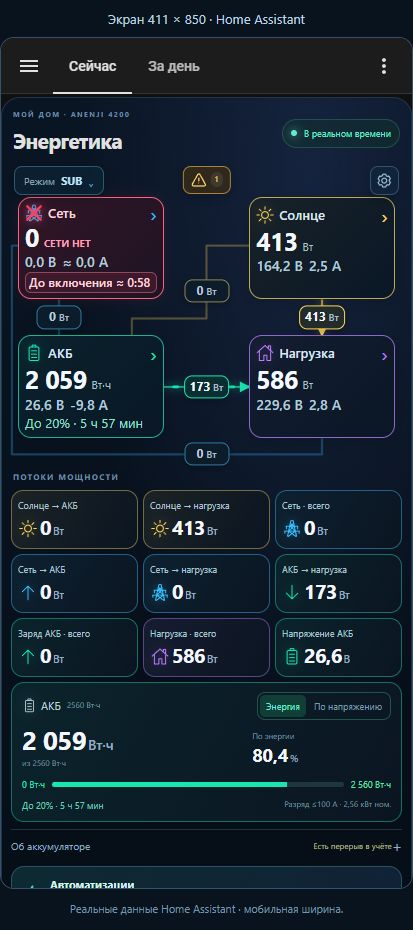
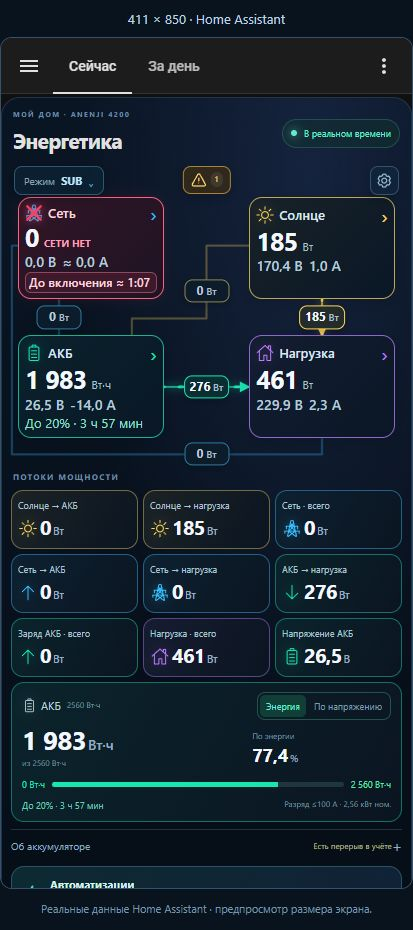
Fit energy overview to landscape phones and desktop screens

diff --git a/energetika-card.js b/energetika-card.js
@@ -8,7 +8,7 @@ export function formatRuntime(minutes) {
   const total=Math.floor(minutes);
   return total===0?'0 мин':`${Math.floor(total/60)} ч ${String(total%60).padStart(2,'0')} мин`;
 }
-/* Energetika 2.9.2 — local Home Assistant card, no external dependencies. */
+/* Energetika 2.10.2 — local Home Assistant card, no external dependencies. */
 const ROOT = 'sensor.anenji_4200_protocol_1_';
 const SOURCE_MODES = [
   {code:'UTI', option:'Utility First (UTI)', description:'Сеть в приоритете'},
@@ -126,11 +126,34 @@ class EnergetikaCard extends HTMLElement {
       @media(max-width:750px){.diagram-wrap{padding-top:36px}.diagram-stage{max-width:500px;min-height:270px}.diagram-stage>.node{padding:6px;gap:2px;border-radius:13px}.node-heading{gap:5px;min-height:18px}.node-heading .node-name{font-size:13px}.node-symbol>.icon,.node-symbol>.grid-cross{width:18px;height:18px}.node-reading .node-value{font-size:25px}.node-reading .node-unit{font-size:11px}.node>.node-metrics{font-size:14px;gap:6px}.node>.node-runtime{font-size:13px}.node>.grid-timer{font-size:12px;padding:2px 3px}.diagram-stage>.flow-label{font-size:12px;padding:4px 5px}.grid-absent .node-reading .node-unit{font-size:10px}}
       @media(max-width:390px){.diagram-stage>.node{padding:5px;gap:2px}.node-heading .node-name{font-size:12px}.node-reading .node-value{font-size:23px}.node>.node-metrics{font-size:13px;gap:6px}.node>.node-runtime{font-size:12px}.node>.grid-timer{font-size:11.5px}.node-symbol>.icon,.node-symbol>.grid-cross{width:18px;height:18px}.diagram-stage>.flow-label{min-width:41px;padding:4px;font-size:11px}}
       .node.grid-absent>.grid-timer.scheduled{background:#3c1a2b;border-color:#95465c;color:#ffd1de}
-      .shell>header{display:grid;grid-template-columns:minmax(0,1fr) auto;gap:8px;margin:0;text-align:left}.energy-heading{position:static;display:flex;flex-direction:column;align-items:flex-start;min-width:0;text-align:left}.energy-heading h1{margin-left:0;transform:none;white-space:nowrap}.energy-heading .eyebrow{margin-left:0;transform:none}
+      .shell>header,.first-screen>header{display:grid;grid-template-columns:minmax(0,1fr) auto;gap:8px;margin:0;text-align:left}.energy-heading{position:static;display:flex;flex-direction:column;align-items:flex-start;min-width:0;text-align:left}.energy-heading h1{margin-left:0;transform:none;white-space:nowrap}.energy-heading .eyebrow{margin-left:0;transform:none}
+
+      /* Keep the portrait arrangement; give wider screens their own two-column layout. */
+      .diagram-wrap{padding-top:0}.diagram-toolbar{position:relative;height:42px}.first-screen,.overview,.flow-panel{min-width:0}.flow-panel{margin:0}.overview>.battery-summary{margin-top:10px}.overview-actions{min-width:0}
+      @media(max-width:750px){.diagram-toolbar{height:36px}.overview>.battery-summary{margin-top:5px}}
+      @media(min-width:800px), (orientation:landscape) and (min-width:640px) and (max-height:600px){
+        .shell{position:relative;max-width:none;margin:4px 8px 12px;padding:14px;border-radius:22px}.shell>header,.first-screen>header{display:grid;grid-template-columns:minmax(0,1fr) auto;gap:8px;padding:0 2px 8px;margin:0}.first-screen>header h1{font-size:25px;line-height:1.1;margin:0}.first-screen>header .eyebrow{font-size:8px;line-height:1.2;margin-bottom:4px}.first-screen>header .sub{display:none}
+        .overview{display:grid;grid-template-columns:minmax(0,1.1fr) minmax(0,1fr);grid-template-rows:auto auto;gap:10px 16px;align-items:stretch}.overview>.diagram-wrap{grid-column:1;grid-row:1;min-width:0;min-height:0}.diagram-toolbar{height:36px}.diagram-toolbar .inverter-mode,.diagram-toolbar .settings-gear,.diagram-toolbar energetika-alerts-panel{top:0}.diagram-stage{height:clamp(280px,38dvh,340px);min-height:0;max-height:none;max-width:none;aspect-ratio:auto;margin-bottom:0}
+        .diagram-stage>.node{padding:8px;gap:3px}.node-heading{min-height:20px}.node-reading .node-value{font-size:28px}.node>.node-metrics{font-size:14px;gap:9px}.node>.node-runtime{font-size:13px}.node>.grid-timer{font-size:12px}
+        .flow-panel{grid-column:2;grid-row:1;display:flex;flex-direction:column;min-height:0}.flow-panel>.section-label{font-size:10px;margin:8px 0 8px;line-height:20px}.flow-panel>.tiles{flex:1;grid-template-columns:repeat(2,minmax(0,1fr));grid-auto-rows:minmax(0,1fr);gap:7px;min-height:0}.flow-panel .tile{min-height:0;padding:9px 10px;gap:9px;border-radius:13px}.flow-panel .tile>.icon{width:24px;height:28px}.flow-panel .tile-title{font-size:12px;white-space:normal}.flow-panel .tile strong{font-size:27px;line-height:1.1;padding-left:0}.flow-panel .tile-body{gap:4px}.flow-panel .tile .arrow{display:none}.flow-panel .charge-tile{grid-row:auto;grid-column:1/-1}
+        .overview>.battery-summary{grid-column:1/-1;grid-row:2;margin:0;padding:10px 14px}.battery-top{margin-bottom:6px}.battery-main .plain-value strong{font-size:30px}.battery-layout{grid-template-columns:minmax(0,1.6fr) minmax(0,1fr)}.battery-layout .mini strong{font-size:23px}.voltage-limits{margin-top:7px}.battery-bottom{margin-top:6px}
+        .note,footer{display:none}.overview-actions{display:flex;align-items:flex-start;gap:12px;margin-top:8px}.overview-actions>details{flex:1;min-width:0;margin:0;padding-top:6px}.overview-actions>energetika-automation-panel{flex:1;min-width:0;margin-top:0}
+      }
+      @media(min-width:1400px) and (min-height:601px){.flow-panel>.tiles{grid-template-columns:repeat(3,minmax(0,1fr))}.flow-panel .charge-tile{grid-column:auto}.flow-panel .tile strong{font-size:32px}.flow-panel .tile-title{font-size:13px}.overview{grid-template-columns:minmax(0,1.1fr) minmax(0,1fr);gap:12px 20px}.shell{padding:18px}}
+      @media(min-width:800px) and (max-height:760px) and (min-height:601px){.shell{padding:10px 12px}.diagram-stage>.node{padding:6px;gap:2px}.node-heading{min-height:18px}.node-symbol>.icon,.node-symbol>.grid-cross{width:18px;height:18px}.node-heading .node-name{font-size:13px}.node-reading .node-value{font-size:25px}.flow-panel .tile{padding:7px 9px}.flow-panel .tile-title{font-size:11px}.flow-panel .tile strong{font-size:24px}.first-screen>header h1{font-size:23px}}
+      @media(orientation:landscape) and (min-width:640px) and (max-height:600px){
+        .shell{margin:3px 5px 10px;padding:6px 8px;border-radius:15px;overflow:visible}.first-screen{height:calc(100dvh - 72px);min-height:296px;display:flex;flex-direction:column;gap:5px}.first-screen>header{display:block;min-height:26px;padding:0 310px 0 1px}.first-screen>header h1{font-size:19px;line-height:26px}.first-screen>header .eyebrow,.first-screen>header .live{display:none}
+        .overview{flex:1;min-height:0;grid-template-columns:minmax(0,1.1fr) minmax(0,1fr);grid-template-rows:minmax(0,1fr) 72px;gap:6px 12px}.overview>.diagram-wrap{position:static}.diagram-toolbar{position:absolute;right:8px;top:5px;width:300px;height:28px;z-index:5}.diagram-toolbar .inverter-mode{left:0;top:0}.diagram-toolbar .settings-gear{right:0;top:0;width:28px;height:28px;padding:5px}.diagram-toolbar energetika-alerts-panel{top:0}.diagram-toolbar .source-trigger{min-height:28px;padding:5px 8px;font-size:10px}.diagram-toolbar .source-trigger strong{font-size:11px}.diagram-toolbar .mode-popover{top:32px}
+        .diagram-stage{height:100%;min-height:0;max-height:none;max-width:none;aspect-ratio:auto}.diagram-stage>.node{height:42%!important;padding:4px;gap:1px;border-radius:10px}.node-heading{min-height:16px;gap:4px}.node-heading .node-name{font-size:12px}.node-symbol>.icon,.node-symbol>.grid-cross{width:16px;height:16px}.node-reading{gap:3px}.node-reading .node-value{font-size:22px;line-height:1.05}.node-reading .node-unit{font-size:10px}.node>.node-metrics{font-size:13px;line-height:1.15;gap:6px}.node>.node-runtime{font-size:11.5px;line-height:1.15}.node>.grid-timer{font-size:11px;line-height:1.15;padding:1px 3px}.diagram-stage>.flow-label{min-width:39px;padding:3px 4px;font-size:11px;border-radius:6px}.diagram-stage>.flow-label .flow-unit{font-size:9px}
+        .flow-panel>.section-label{font-size:8px;letter-spacing:1px;line-height:12px;margin:0 0 3px}.flow-panel>.tiles{grid-template-columns:repeat(3,minmax(0,1fr));grid-template-rows:repeat(3,minmax(0,1fr));grid-auto-rows:auto;gap:4px}.flow-panel .charge-tile{grid-column:auto;grid-row:auto}.flow-panel .tile{display:block;position:relative;padding:4px 5px;border-radius:9px}.flow-panel .tile>.icon{position:absolute;left:5px;bottom:6px;width:16px;height:18px}.flow-panel .tile-body{height:100%;justify-content:space-between;gap:2px}.flow-panel .tile-title{font-size:10px;line-height:1.1;white-space:normal}.flow-panel .tile strong{font-size:21px;padding-left:20px;line-height:1.05}.flow-panel .tile strong.long-value{font-size:17px}
+        .overview>.battery-summary{padding:5px 8px;display:grid;grid-template-columns:minmax(150px,1fr) minmax(180px,1.4fr) minmax(170px,1fr);grid-template-rows:minmax(0,1fr) auto;gap:2px 10px;border-radius:11px;min-height:0;line-height:1.1}.battery-main .plain-value{display:block;line-height:1}.battery-top{grid-column:1;grid-row:1/3;flex-direction:column;align-items:flex-start;justify-content:center;gap:3px;margin:0}.battery-title{font-size:11px;gap:4px}.battery-title .icon{width:16px;height:18px}.nameplate{font-size:8px;margin-left:2px}.mode-switch{padding:1px}.mode-switch button{font-size:9px;padding:3px 6px}.battery-layout{grid-column:2;grid-row:1;grid-template-columns:minmax(0,1.6fr) minmax(0,1fr);gap:7px;align-items:center}.battery-main .plain-value strong{font-size:25px;line-height:1}.battery-main .capacity{font-size:8px;margin-top:1px}.battery-layout .mini>span{font-size:8px}.battery-layout .mini strong{font-size:18px}.voltage-limits{grid-column:2;grid-row:2;font-size:8px;gap:5px;margin:0}.voltage-limits .bar{height:4px}.battery-bottom{grid-column:3;grid-row:1/3;flex-direction:column;align-items:flex-end;justify-content:center;gap:4px;margin:0;font-size:8px}.battery-bottom .runtime{font-size:11px}.battery-spec{font-size:8px}.battery-estimate{font-size:9px;text-align:right}.overview-actions{margin-top:8px;gap:10px}.overview-actions>details{font-size:10px}.note,footer{display:none}
+      }
+      @media(orientation:landscape) and (min-width:640px) and (max-height:380px){.first-screen{height:calc(100dvh - 68px);min-height:280px;gap:4px}.overview{grid-template-rows:minmax(0,1fr) 66px;gap:4px 10px}.first-screen>header{min-height:24px}.first-screen>header h1{font-size:18px;line-height:24px}.diagram-stage>.node{padding:3px}.node-heading{min-height:14px}.node-symbol>.icon,.node-symbol>.grid-cross{width:14px;height:14px}.node-heading .node-name{font-size:11px}.node-reading .node-value{font-size:21px}.node>.node-metrics{font-size:12px}.node>.node-runtime{font-size:11px}.node>.grid-timer{font-size:10.5px}.flow-panel .tile-title{font-size:9px}.flow-panel .tile strong{font-size:19px}.overview>.battery-summary{padding:4px 7px}.battery-main .plain-value strong{font-size:23px}.battery-top{gap:2px}.mode-switch button{padding:2px 5px}}
     </style>
-    <ha-card class="shell"><header><div class="energy-heading"><div class="eyebrow">МОЙ ДОМ · ANENJI 4200</div><h1>Энергетика</h1><div class="sub">Солнце, сеть и энергия вашего дома</div></div><span class="live" data-live><span class="dot"></span><span data-live-text>Подключение</span></span></header>
-    <div class="diagram-wrap"><energetika-alerts-panel></energetika-alerts-panel><button class="settings-gear" data-settings-open aria-label="Настройки инвертора" title="Настройки инвертора"><svg viewBox="0 0 24 24" fill="none" stroke="currentColor" stroke-width="1.7" stroke-linecap="round" stroke-linejoin="round" aria-hidden="true"><path d="m9 3-.6 2.1-1.5.9-2.1-.5-2 3.5 1.5 1.6v1.8L2.8 14l2 3.5 2.1-.5 1.5.9L9 20h4l.6-2.1 1.5-.9 2.1.5 2-3.5-1.5-1.6v-1.8L19.2 9l-2-3.5-2.1.5-1.5-.9L13 3Z"/><circle cx="11" cy="11.5" r="3.2"/></svg></button><div class="inverter-mode"><button class="source-trigger" data-source-open aria-haspopup="dialog" aria-expanded="false"><span>Режим</span><strong data-source-current>—</strong><span class="caret">⌄</span></button><div class="mode-popover" data-source-popover role="dialog" aria-label="Режим питания инвертора" hidden><div class="mode-heading">Приоритет питания<button class="mode-close" data-source-close aria-label="Закрыть выбор режима">×</button></div><div class="source-options" data-source-options role="group" aria-label="Доступные режимы"></div><div class="mode-message" data-source-message role="status"></div><p class="mode-note" data-source-note hidden>Переключение изменит источник питания дома.</p><button class="mode-apply" data-source-apply disabled>Применить режим</button><button class="mode-setting-link" data-settings-link>Все настройки инвертора →</button></div></div>
-    <div class="diagram-stage">
+    <ha-card class="shell"><div class="first-screen"><header><div class="energy-heading"><div class="eyebrow">МОЙ ДОМ · ANENJI 4200</div><h1>Энергетика</h1><div class="sub">Солнце, сеть и энергия вашего дома</div></div><span class="live" data-live><span class="dot"></span><span data-live-text>Подключение</span></span></header>
+    <div class="overview">
+    <div class="diagram-wrap"><div class="diagram-toolbar"><energetika-alerts-panel></energetika-alerts-panel><button class="settings-gear" data-settings-open aria-label="Настройки инвертора" title="Настройки инвертора"><svg viewBox="0 0 24 24" fill="none" stroke="currentColor" stroke-width="1.7" stroke-linecap="round" stroke-linejoin="round" aria-hidden="true"><path d="m9 3-.6 2.1-1.5.9-2.1-.5-2 3.5 1.5 1.6v1.8L2.8 14l2 3.5 2.1-.5 1.5.9L9 20h4l.6-2.1 1.5-.9 2.1.5 2-3.5-1.5-1.6v-1.8L19.2 9l-2-3.5-2.1.5-1.5-.9L13 3Z"/><circle cx="11" cy="11.5" r="3.2"/></svg></button><div class="inverter-mode"><button class="source-trigger" data-source-open aria-haspopup="dialog" aria-expanded="false"><span>Режим</span><strong data-source-current>—</strong><span class="caret">⌄</span></button><div class="mode-popover" data-source-popover role="dialog" aria-label="Режим питания инвертора" hidden><div class="mode-heading">Приоритет питания<button class="mode-close" data-source-close aria-label="Закрыть выбор режима">×</button></div><div class="source-options" data-source-options role="group" aria-label="Доступные режимы"></div><div class="mode-message" data-source-message role="status"></div><p class="mode-note" data-source-note hidden>Переключение изменит источник питания дома.</p><button class="mode-apply" data-source-apply disabled>Применить режим</button><button class="mode-setting-link" data-settings-link>Все настройки инвертора →</button></div></div>
+    </div><div class="diagram-stage">
     <svg class="diagram" viewBox="0 0 440 300" preserveAspectRatio="none" aria-label="Направления потоков энергии">
       <defs>${['solar','grid','battery'].map(c=>`<marker id="arrow-${c}" markerWidth="4" markerHeight="4" refX="3.5" refY="2" orient="auto"><path d="M0 0 4 2 0 4Z" fill="var(--${c})"/></marker>`).join('')}</defs>
       ${this._flow('grid_load','M8 54H1V286H350V268','grid')}
@@ -149,7 +172,7 @@ class EnergetikaCard extends HTMLElement {
       ${this._flowLabel('battery_load',220,211,'battery','АКБ → нагрузка')}
       ${this._flowLabel('grid_load',220,286,'grid','Сеть → нагрузка, байпас')}
     </div></div>
-    <div class="section-label">ПОТОКИ МОЩНОСТИ <span style="color:#3f5e76">/ НАЖМИТЕ НА ЧИСЛО ДЛЯ ИСТОРИИ</span></div>
+    <section class="flow-panel"><div class="section-label">ПОТОКИ МОЩНОСТИ <span style="color:#3f5e76">/ НАЖМИТЕ НА ЧИСЛО ДЛЯ ИСТОРИИ</span></div>
     <div class="tiles">
       ${this._tile('pv_battery','Солнце → АКБ','Заряд от солнечных панелей','sun','solar')}
       ${this._tile('pv_load','Солнце → нагрузка','Солнечная энергия для дома','sun','solar')}
@@ -159,18 +182,19 @@ class EnergetikaCard extends HTMLElement {
       ${this._tile('battery_load','АКБ → нагрузка','Разряд аккумулятора в дом','down','battery')}
       ${this._tile('load','Нагрузка · всего','Потребление дома','home','home')}
       <button class="tile battery" data-key="voltage" title="История напряжения аккумулятора">${icon('battery')}<span class="tile-body"><span class="tile-title">Напряжение АКБ</span><strong>${value('voltage','В')}</strong></span></button>
+      <div class="charge-tile">${this._tile('charge','Заряд АКБ · всего','Сеть + солнце','up','battery')}</div>
+    </div></section>
       <div class="tile battery battery-summary">
         <div class="battery-top"><div class="battery-title">${icon('battery')}АКБ <span class="nameplate" data-battery-nameplate>2560 Вт·ч</span></div><div class="mode-switch" role="group" aria-label="Способ оценки заряда"><button data-mode="energy" aria-pressed="true">Энергия</button><button data-mode="voltage" aria-pressed="false">По напряжению</button></div></div>
         <div class="battery-layout"><div class="battery-main"><button class="plain-value" data-primary data-key="battery" title="История оставшейся энергии"><strong><span data-primary-value>—</span><span class="unit" data-primary-unit>Вт·ч</span></strong></button><span class="capacity" data-mode-caption>из 2560 Вт·ч</span></div><button class="mini" data-secondary data-key="percent"><span data-secondary-label>По энергии</span><strong><span data-secondary-value>—</span><span class="unit">%</span></strong></button></div>
         <div class="voltage-limits"><button data-limit-min data-key="battery" title="История оставшейся энергии">0 Вт·ч</button><div class="bar" data-battery-meter role="meter" aria-label="Оставшаяся энергия АКБ" aria-valuemin="0" aria-valuemax="2560"><span data-battery-bar></span></div><button class="voltage-max" data-limit-max data-key="battery" title="Полная номинальная энергия АКБ">2560 Вт·ч</button></div>
         <div class="battery-bottom"><button class="runtime" data-key="runtime" data-energy-only title="По учёту энергии и текущему разряду АКБ"><span data-runtime>До 20% · —</span></button><span class="battery-estimate" data-voltage-only hidden>Линейная оценка · зависит от нагрузки</span><span class="battery-spec" data-battery-spec title="Подтверждённый предел разряда 100 А">Разряд ≤100 А · 2,56 кВт ном.</span></div>
       </div>
-      <div class="charge-tile">${this._tile('charge','Заряд АКБ · всего','Сеть + солнце','up','battery')}</div>
-    </div>
+    </div></div>
 
     <div class="note">Стрелки движутся в направлении передачи энергии. Ток сети ≈ P/U (оценка активного тока). Таймер — по текущему разряду до резерва 20%, при смене нагрузки пересчитывается. Распределение потоков — расчёт интеграции инвертора; разница с нагрузкой может включать потери и собственное потребление.</div>
-    <details><summary>Об аккумуляторе <span class="main-status" data-main-status></span></summary><div data-voltage-only hidden><p>В режиме «По напряжению» слева показано текущее напряжение АКБ, справа — линейная оценка заряда в процентах. Шкала заполняется от нижнего порога автономной работы из настроек инвертора до 29,0 В. Красная граница — нижний порог, зелёная — верхний.</p><p>Оценка зависит от нагрузки и не является точным показанием BMS. При недоступном напряжении или неверных границах процент не рассчитывается.</p><p>Штатная оценка инвертора: <button class="plain-value" data-key="inverter_percent"><span data-value="inverter_percent">—</span>%</button>.</p></div><div data-energy-only><div class="calibration" data-calibration></div><p>Режим «Энергия» — остаток по мощности и времени. Режим «По напряжению» — линейная оценка от нижнего порога автономной работы до 29,0 В: она зависит от нагрузки и не меняет счётчик Вт·ч. Выбор сохраняется на этом устройстве. Таймер в режиме «Энергия» рассчитан по учтённой энергии. Максимальный разряд АКБ — 100 А, номинально 2,56 кВт при 25,6 В; доступная мощность на выходе AC ниже из-за потерь.</p><p>Штатная оценка инвертора: <button class="plain-value" data-key="inverter_percent"><span data-value="inverter_percent">—</span>%</button> · <button class="plain-value" data-key="inverter_energy"><span data-value="inverter_energy">—</span> Вт·ч</button>.</p><p>Номинальная энергия — <b>2560 Вт·ч</b>. Счётчик складывает энергию заряда и вычитает энергию разряда: мощность × время. Например, 500 Вт в течение часа — 500 Вт·ч. Напряжение и процент инвертора показаны отдельно и не пересчитывают этот остаток. Значение сохраняется на сервере и считается при закрытой панели.</p><p>После подтверждённого полного заряда остаток устанавливается в 2560 Вт·ч. Автокалибровка: верхнее напряжение держалось минуту, затем малый чистый ток (до 2 А) и мощность по модулю до 60 Вт держатся 5 минут. Поддерживающее напряжение учитывается только после верхнего в том же цикле, без устойчивого разряда мощнее 60 Вт. Малый ток может быть положительным или отрицательным: например, −1,4 А и −39 Вт после заряда не сбрасывают ожидание. Потеря свежих данных более 2 минут, отключение АКБ или изменение Bulk/Float отменяют сохранённый признак. Один малый ток при 27,2 В не подтверждает полный заряд. В режиме «Энергия» шкала показывает оставшиеся Вт·ч из 2560; в режиме «По напряжению» — положение напряжения между нижним порогом и 29,0 В. Это оценка полного заряда, поскольку сигнала BMS нет. Кнопку используйте только когда уверены, что аккумулятор заряжен полностью.</p><button class="calibrate" data-calibrate>АКБ полностью заряжена</button><span class="last-full" data-last-full></span><p class="last-full" data-calibration-status role="status"></p><div class="toast" role="status" data-toast></div></div></details>
-    <energetika-automation-panel></energetika-automation-panel><footer><span>ЛОКАЛЬНЫЙ МОНИТОРИНГ</span><span data-updated>Ожидание данных</span></footer><energetika-settings-panel></energetika-settings-panel></ha-card>`;
+    <div class="overview-actions"><details><summary>Об аккумуляторе <span class="main-status" data-main-status></span></summary><div data-voltage-only hidden><p>В режиме «По напряжению» слева показано текущее напряжение АКБ, справа — линейная оценка заряда в процентах. Шкала заполняется от нижнего порога автономной работы из настроек инвертора до 29,0 В. Красная граница — нижний порог, зелёная — верхний.</p><p>Оценка зависит от нагрузки и не является точным показанием BMS. При недоступном напряжении или неверных границах процент не рассчитывается.</p><p>Штатная оценка инвертора: <button class="plain-value" data-key="inverter_percent"><span data-value="inverter_percent">—</span>%</button>.</p></div><div data-energy-only><div class="calibration" data-calibration></div><p>Режим «Энергия» — остаток по мощности и времени. Режим «По напряжению» — линейная оценка от нижнего порога автономной работы до 29,0 В: она зависит от нагрузки и не меняет счётчик Вт·ч. Выбор сохраняется на этом устройстве. Таймер в режиме «Энергия» рассчитан по учтённой энергии. Максимальный разряд АКБ — 100 А, номинально 2,56 кВт при 25,6 В; доступная мощность на выходе AC ниже из-за потерь.</p><p>Штатная оценка инвертора: <button class="plain-value" data-key="inverter_percent"><span data-value="inverter_percent">—</span>%</button> · <button class="plain-value" data-key="inverter_energy"><span data-value="inverter_energy">—</span> Вт·ч</button>.</p><p>Номинальная энергия — <b>2560 Вт·ч</b>. Счётчик складывает энергию заряда и вычитает энергию разряда: мощность × время. Например, 500 Вт в течение часа — 500 Вт·ч. Напряжение и процент инвертора показаны отдельно и не пересчитывают этот остаток. Значение сохраняется на сервере и считается при закрытой панели.</p><p>После подтверждённого полного заряда остаток устанавливается в 2560 Вт·ч. Автокалибровка: верхнее напряжение держалось минуту, затем малый чистый ток (до 2 А) и мощность по модулю до 60 Вт держатся 5 минут. Поддерживающее напряжение учитывается только после верхнего в том же цикле, без устойчивого разряда мощнее 60 Вт. Малый ток может быть положительным или отрицательным: например, −1,4 А и −39 Вт после заряда не сбрасывают ожидание. Потеря свежих данных более 2 минут, отключение АКБ или изменение Bulk/Float отменяют сохранённый признак. Один малый ток при 27,2 В не подтверждает полный заряд. В режиме «Энергия» шкала показывает оставшиеся Вт·ч из 2560; в режиме «По напряжению» — положение напряжения между нижним порогом и 29,0 В. Это оценка полного заряда, поскольку сигнала BMS нет. Кнопку используйте только когда уверены, что аккумулятор заряжен полностью.</p><button class="calibrate" data-calibrate>АКБ полностью заряжена</button><span class="last-full" data-last-full></span><p class="last-full" data-calibration-status role="status"></p><div class="toast" role="status" data-toast></div></div></details>
+    <energetika-automation-panel></energetika-automation-panel></div><footer><span>ЛОКАЛЬНЫЙ МОНИТОРИНГ</span><span data-updated>Ожидание данных</span></footer><energetika-settings-panel></energetika-settings-panel></ha-card>`;
     root.querySelectorAll('[data-key]').forEach(el=>{
       const open = e=>{e.stopPropagation();this._moreInfo(el.dataset.key);};
       el.addEventListener('click',open);

diff --git a/build_deploy.py b/build_deploy.py
@@ -51,7 +51,7 @@ def main():
         temporary.write_text(files[name],encoding='utf-8')
         temporary.replace(path)
     print('UI and YAML installed; backup:',backup)
-    print('Restart Home Assistant; update resource URL to /local/energetika-card.js?v=2.9.2')
+    print('Restart Home Assistant; update resource URL to /local/energetika-card.js?v=2.10.2')
 if __name__=='__main__': main()
 ''' % payload
 Path('.deploy').mkdir(exist_ok=True)

diff --git a/docs/INSTALL.uk.md b/docs/INSTALL.uk.md
@@ -35,7 +35,7 @@ homeassistant:
 
 Не створюйте другу секцію `homeassistant`. Якщо пакети вже підключені каталогом, скористайтеся наявною схемою.
 
-Скопіюйте **сім** файлів `energetika-card.js`, `energetika-history.js`, `energetika-settings.js`, `energetika-automation.js`, `energetika-alerts.js`, `energetika-hourly.js` та `energetika-dtek.js` до `www`. Головна картка імпортує історію та налаштування відносними шляхами. У Налаштування → Інформаційні панелі → Ресурси додайте `/local/energetika-card.js?v=2.9.2`, тип **Модуль JavaScript**. Додаткові ресурси для імпортованих модулів не потрібні.
+Скопіюйте **сім** файлів `energetika-card.js`, `energetika-history.js`, `energetika-settings.js`, `energetika-automation.js`, `energetika-alerts.js`, `energetika-hourly.js` та `energetika-dtek.js` до `www`. Головна картка імпортує історію та налаштування відносними шляхами. У Налаштування → Інформаційні панелі → Ресурси додайте `/local/energetika-card.js?v=2.10.2`, тип **Модуль JavaScript**. Додаткові ресурси для імпортованих модулів не потрібні.
 
 При першому створенні `www` може знадобитися перезапуск. Перевірте конфігурацію через інструменти YAML перед перезапуском.
 
@@ -83,7 +83,7 @@ homeassistant:
 
 Для іншої установки адаптуйте координати міста, часовий пояс, потужність та кут панелей, діапазон фону, резерв і префікси. Значення 2,52 кВт задано у формулах YAML та підписах JS. Усі сутності пакета мають префікс `energetika_`; головні: `sensor.energetika_solar_strategy`, `input_boolean.energetika_solar_auto`, `input_boolean.energetika_solar_fault`, `input_text.energetika_solar_result`.
 
-Після оновлення перевірте YAML, перезапустіть HA, оновіть ресурс картки до **2.9.2** та перезавантажте браузер. Перевіряйте готовність за реальними даними; не змінюйте режими інвертора, зарядні налаштування або показання датчиків лише для демонстрації.
+Після оновлення перевірте YAML, перезапустіть HA, оновіть ресурс картки до **2.10.2** та перезавантажте браузер. Перевіряйте готовність за реальними даними; не змінюйте режими інвертора, зарядні налаштування або показання датчиків лише для демонстрації.
 
 Створіть окрему панель, відкрийте редагування → текстовий редактор і вставте `dashboard-energetika.yaml`. Збережіть та завершіть редагування. Оновіть сторінку й фронтенд телефонного застосунку, щоб завантажився новий JS.
 
@@ -213,4 +213,14 @@ REST-запит тепер також отримує погодинні `tempera
 
 Текст плашок і потоків тепер є звичайними HTML-елементами над SVG зі стрілками. На ширині телефону 411 px напруга й струм мають розмір 14 px, таймер АКБ — 13 px, мережі — 12 px; для ширини до 390 px передбачено компактніші відступи й текст. Схема має мінімальну висоту 270 px, тому браузер не стискає підписи до нерозбірливого розміру. Нижні дев'ять плиток і блок АКБ збережені. [Знімок реального HA в області 411 × 850](screenshots/mobile-energy-readable.jpg) показує всі ці показники на першому екрані. За іншого масштабу шрифтів або меншої висоти доступна звичайна прокрутка.
 
-Оновіть `energetika-card.js`, ресурс до `/local/energetika-card.js?v=2.9.2` і перезавантажте сторінку або екран Companion App. Це зміна інтерфейсу; перезапуск HA для неї не потрібен.
+Оновіть `energetika-card.js`, ресурс до `/local/energetika-card.js?v=2.10.2` і перезавантажте сторінку або екран Companion App. Це зміна інтерфейсу; перезапуск HA для неї не потрібен.
+
+## Горизонтальний телефон і комп’ютер · 2.10.2
+
+Від ширини 800 px схема розміщується ліворуч, а дев’ять плиток потоків — праворуч. У широкому вікні вони мають три стовпці; у вужчому — два. Блок АКБ займає всю ширину під ними. Картка використовує доступну ширину панелі без попереднього обмеження 1100 px.
+
+У горизонтальній області від 640 px завширшки й до 600 px заввишки меню режимів, журнал і шестерня переходять у рядок заголовка. Потоки утворюють сітку 3 × 3, а АКБ — низьку смугу з основним значенням, відсотком, шкалою, таймером і вибором режиму. Висота враховує верхню панель HA. Основні показники залишаються на першому екрані; автоматизації, пояснення й графіки доступні нижче прокруткою. На дуже низьких екранах або зі збільшеним системним шрифтом також може знадобитися прокрутка.
+
+Знімки реального Home Assistant у заданих областях: [915 × 390](screenshots/landscape-energy-overview.jpg), [1600 × 820](screenshots/desktop-energy-overview.jpg). Переглянуто також 800 × 360 та портретні 411 × 850. Це розміри області перегляду, а не роздільність фізичного дисплея; браузерні вкладки й системні панелі займають решту місця.
+
+Для цього оновлення достатньо замінити `energetika-card.js`, змінити версію ресурсу на `2.10.2` і перезавантажити сторінку. YAML, інтеграції та режими інвертора змінювати не потрібно.
